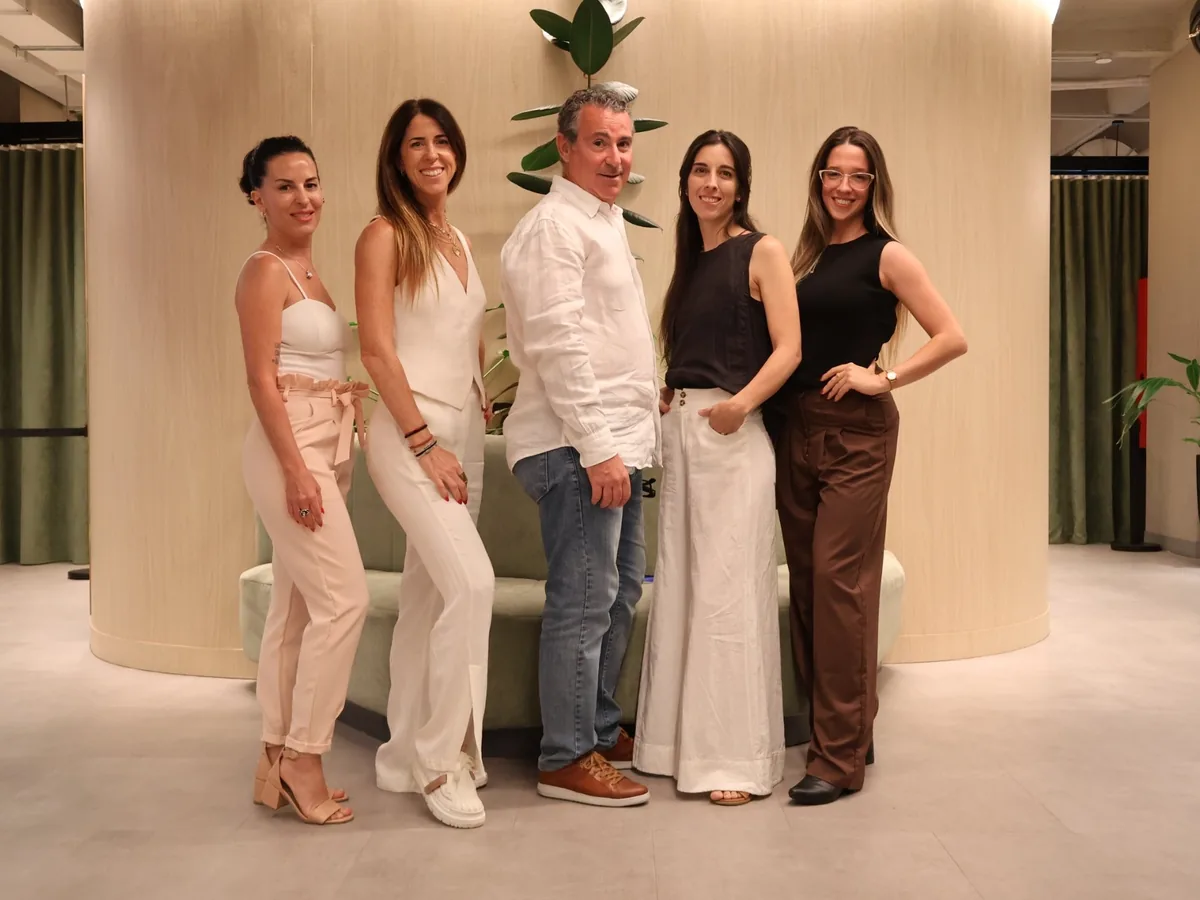
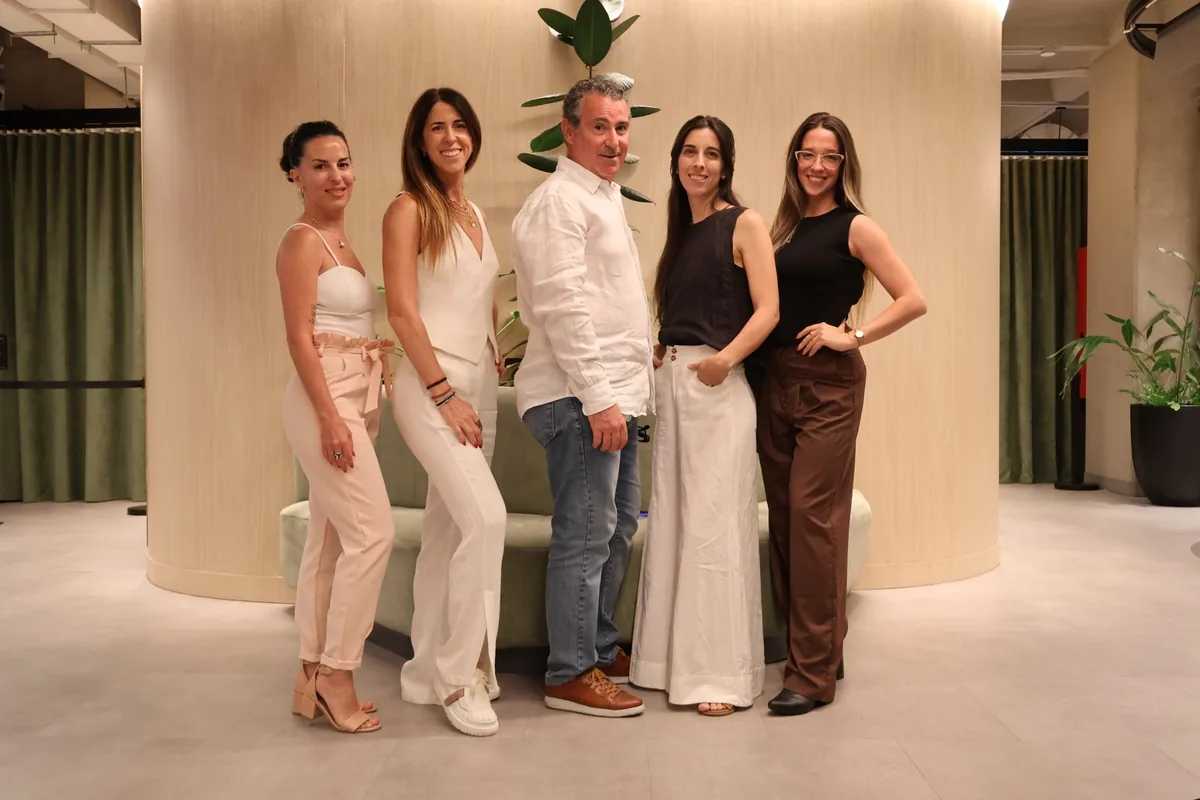
Nosotros: volver a la grilla de 2x2 con las 4 fotos del mismo tamaño
Claude-Session: https://claude.ai/code/session_014Ff2LQ2q9VWGcaQxhCjUgz

diff --git a/nosotros.html b/nosotros.html
@@ -361,15 +361,12 @@ window.addEventListener('load',function(){setTimeout(run,3500)});})();</script>
   @media (max-width: 819px){ .team-photo{max-width:440px; width:100%; margin:0 auto;} }
   .team-mosaic{display:flex; gap:14px; overflow-x:auto; scroll-snap-type:x mandatory; margin:40px -22px 0; padding:0 22px 4px; scrollbar-width:none; -webkit-overflow-scrolling:touch;}
   .team-mosaic::-webkit-scrollbar{display:none;}
-  .team-mosaic{align-items:flex-start;}
-  .team-mosaic figure.wide{aspect-ratio:16/9;}
-  .team-mosaic figure{flex:0 0 84%; scroll-snap-align:center; margin:0; position:relative; aspect-ratio:4/3; border-radius:var(--radius-m); overflow:hidden; background:#2c2540;}
+  .team-mosaic figure{flex:0 0 84%; scroll-snap-align:center; margin:0; position:relative; aspect-ratio:3/2; border-radius:var(--radius-m); overflow:hidden; background:#2c2540;}
   .team-mosaic img{width:100%; height:100%; object-fit:cover; display:block; transition:transform .6s var(--ease);}
   .team-mosaic figcaption{position:absolute; left:0; right:0; bottom:0; padding:72px 18px 14px; background:linear-gradient(180deg, rgba(30,24,48,0) 0%, rgba(30,24,48,.55) 45%, rgba(30,24,48,.9) 100%); text-shadow:0 1px 8px rgba(20,14,34,.6); color:var(--pearl); font-family:'Magna','Fraunces',serif; font-size:17.6px; line-height:1.3;}
   .team-hint{margin-top:12px; font-size:13.6px; color:rgba(245,241,234,.55); text-align:right;}
   @media (min-width: 700px){
-    .team-mosaic{display:grid; grid-template-columns:repeat(3,1fr); gap:16px; overflow:visible; margin:48px 0 0; padding:0;}
-    .team-mosaic figure.wide{grid-column:1 / -1;}
+    .team-mosaic{display:grid; grid-template-columns:1fr 1fr; gap:16px; overflow:visible; margin:48px 0 0; padding:0;}
     .team-mosaic figure{flex:none;}
     .team-mosaic figure:hover img{transform:scale(1.03);}
     .team-hint{display:none;}
@@ -541,10 +538,10 @@ window.addEventListener('load',function(){setTimeout(run,3500)});})();</script>
         <div class="value"><svg class="sparkle" width="14" height="14" viewBox="0 0 24 24" fill="currentColor" aria-hidden="true"><path d="M12 0l2.6 9.4L24 12l-9.4 2.6L12 24l-2.6-9.4L0 12l9.4-2.6z"/></svg><h3>Honestidad, aunque incomode</h3><p>Decimos lo que vemos, también cuando no es lo que alguien quiere escuchar.</p></div>
       </div>
       <div class="team-mosaic" aria-label="El equipo de Velo">
-        <figure class="wide"><img src="img/equipo-sillon-900.webp" srcset="img/equipo-sillon-900.webp 900w, img/equipo-sillon-1600.webp 1600w" sizes="(min-width: 1080px) 976px, (min-width: 700px) 92vw, 84vw" width="1600" height="900" alt="El equipo completo de Velo sentado en un sillón, sonriendo" loading="lazy" decoding="async"><figcaption>Cada búsqueda se piensa entre todos.</figcaption></figure>
-        <figure><img src="img/equipo-esculturas-700.webp" srcset="img/equipo-esculturas-700.webp 700w, img/equipo-esculturas-1200.webp 1200w" sizes="(min-width: 1080px) 312px, (min-width: 700px) 30vw, 84vw" width="1200" height="900" alt="El equipo de Velo sentado al aire libre, riéndose, frente a unas esculturas de colores" loading="lazy" decoding="async"><figcaption>Nos cuidamos entre nosotros.</figcaption></figure>
-        <figure><img src="img/equipo-escalera-risas-700.webp" srcset="img/equipo-escalera-risas-700.webp 700w, img/equipo-escalera-risas-1200.webp 1200w" sizes="(min-width: 1080px) 312px, (min-width: 700px) 30vw, 84vw" width="1200" height="900" alt="Integrantes del equipo de Velo bajando una escalera, una de ellas con los brazos en alto" loading="lazy" decoding="async"><figcaption>Trabajo serio, buen humor.</figcaption></figure>
-        <figure><img src="img/equipo-de-pie-700.webp" srcset="img/equipo-de-pie-700.webp 700w, img/equipo-de-pie-1200.webp 1200w" sizes="(min-width: 1080px) 312px, (min-width: 700px) 30vw, 84vw" width="1200" height="900" alt="Cinco integrantes del equipo de Velo posando de pie, sonrientes" loading="lazy" decoding="async"><figcaption>Detrás de cada presentación, un equipo.</figcaption></figure>
+        <figure><img src="img/equipo-sillon-700.webp" srcset="img/equipo-sillon-700.webp 700w, img/equipo-sillon-1200.webp 1200w" sizes="(min-width: 1080px) 476px, (min-width: 700px) 46vw, 84vw" width="1200" height="800" alt="El equipo completo de Velo sentado en un sillón, sonriendo" loading="lazy" decoding="async"><figcaption>Cada búsqueda se piensa entre todos.</figcaption></figure>
+        <figure><img src="img/equipo-esculturas-700.webp" srcset="img/equipo-esculturas-700.webp 700w, img/equipo-esculturas-1200.webp 1200w" sizes="(min-width: 1080px) 476px, (min-width: 700px) 46vw, 84vw" width="1200" height="800" alt="El equipo de Velo sentado al aire libre, riéndose, frente a unas esculturas de colores" loading="lazy" decoding="async"><figcaption>Nos cuidamos entre nosotros.</figcaption></figure>
+        <figure><img src="img/equipo-escalera-risas-700.webp" srcset="img/equipo-escalera-risas-700.webp 700w, img/equipo-escalera-risas-1200.webp 1200w" sizes="(min-width: 1080px) 476px, (min-width: 700px) 46vw, 84vw" width="1200" height="800" alt="Integrantes del equipo de Velo bajando una escalera, una de ellas con los brazos en alto" loading="lazy" decoding="async"><figcaption>Trabajo serio, buen humor.</figcaption></figure>
+        <figure><img src="img/equipo-de-pie-700.webp" srcset="img/equipo-de-pie-700.webp 700w, img/equipo-de-pie-1200.webp 1200w" sizes="(min-width: 1080px) 476px, (min-width: 700px) 46vw, 84vw" width="1200" height="800" alt="Cinco integrantes del equipo de Velo posando de pie, sonrientes" loading="lazy" decoding="async"><figcaption>Detrás de cada presentación, un equipo.</figcaption></figure>
       </div>
       <p class="team-hint" aria-hidden="true">Deslizá para ver más →</p>
     </div>
